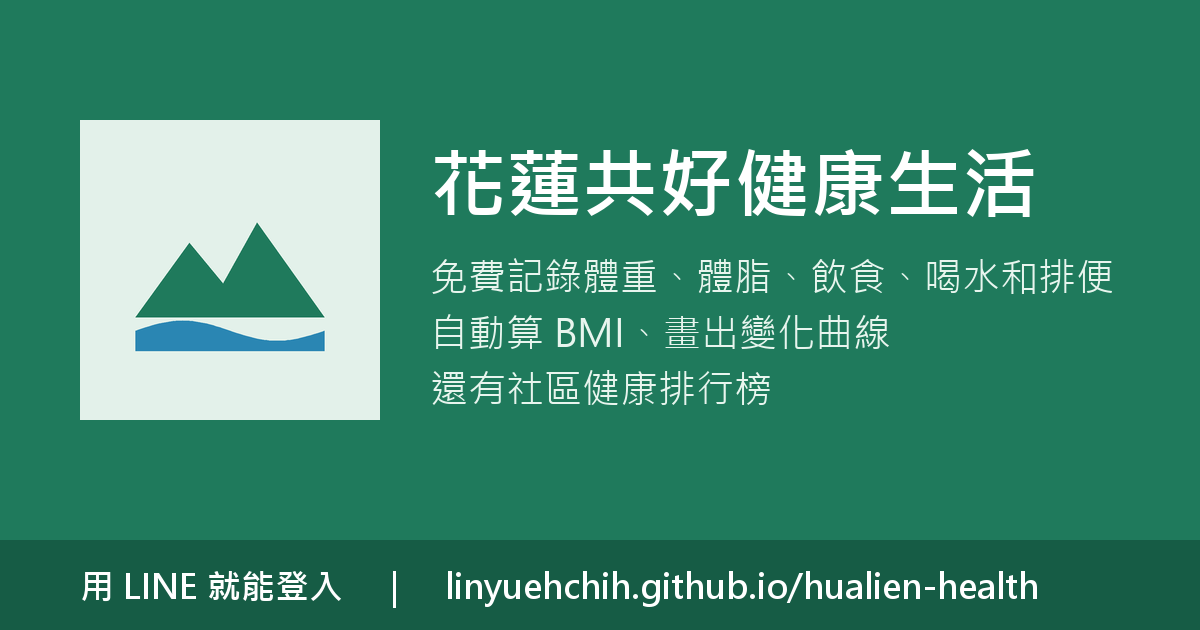
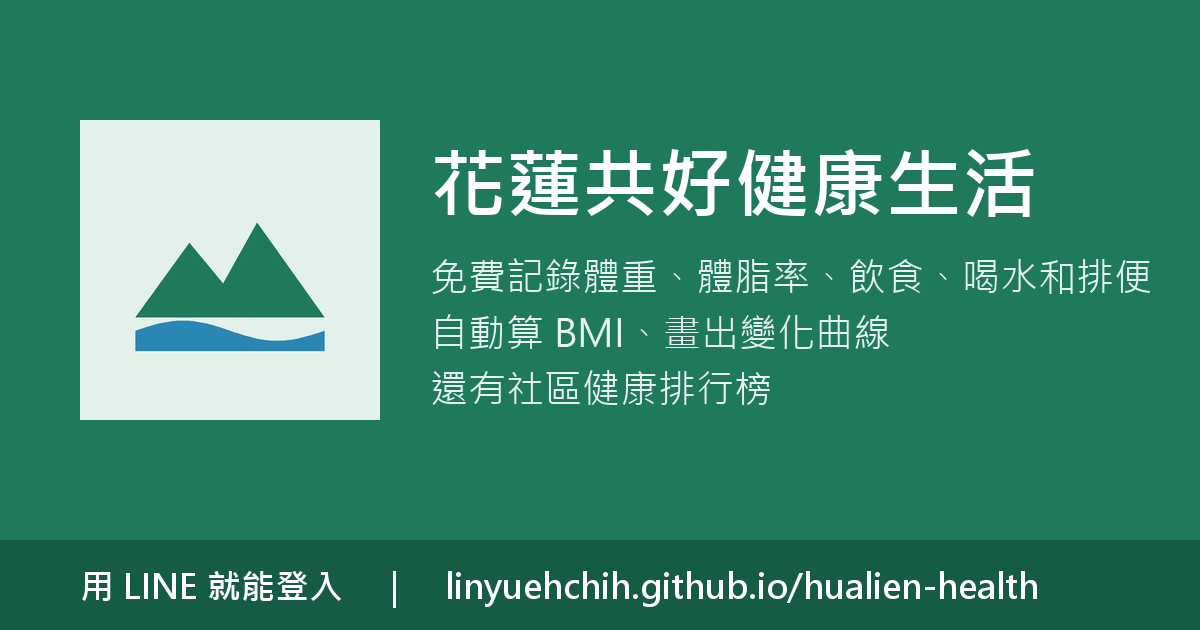
site description: body fat rate wording; og image

Changed region(s): [[0.6475, 0.3921, 0.9558, 0.4825]]

diff --git a/index.html b/index.html
@@ -6,11 +6,11 @@
   <meta name="theme-color" content="#1f7a5c">
   <title>花蓮共好健康生活</title>
   <!-- Google 搜尋結果、LINE／Facebook 連結預覽用的介紹（2026-10-03 岳志確認文字） -->
-  <meta name="description" content="花蓮共好健康生活：免費記錄體重、體脂、飲食、喝水和排便，自動算 BMI、畫出變化曲線，還有社區健康排行榜。用 LINE 就能登入。">
+  <meta name="description" content="花蓮共好健康生活：免費記錄體重、體脂率、飲食、喝水和排便，自動算 BMI、畫出變化曲線，還有社區健康排行榜。用 LINE 就能登入。">
   <meta property="og:type" content="website">
   <meta property="og:site_name" content="花蓮共好健康生活">
   <meta property="og:title" content="花蓮共好健康生活">
-  <meta property="og:description" content="免費記錄體重、體脂、飲食、喝水和排便，自動算 BMI、畫出變化曲線，還有社區健康排行榜。用 LINE 就能登入。">
+  <meta property="og:description" content="免費記錄體重、體脂率、飲食、喝水和排便，自動算 BMI、畫出變化曲線，還有社區健康排行榜。用 LINE 就能登入。">
   <meta property="og:url" content="https://linyuehchih.github.io/hualien-health/">
   <meta property="og:image" content="https://linyuehchih.github.io/hualien-health/images/og-image.png">
   <meta property="og:image:width" content="1200">
